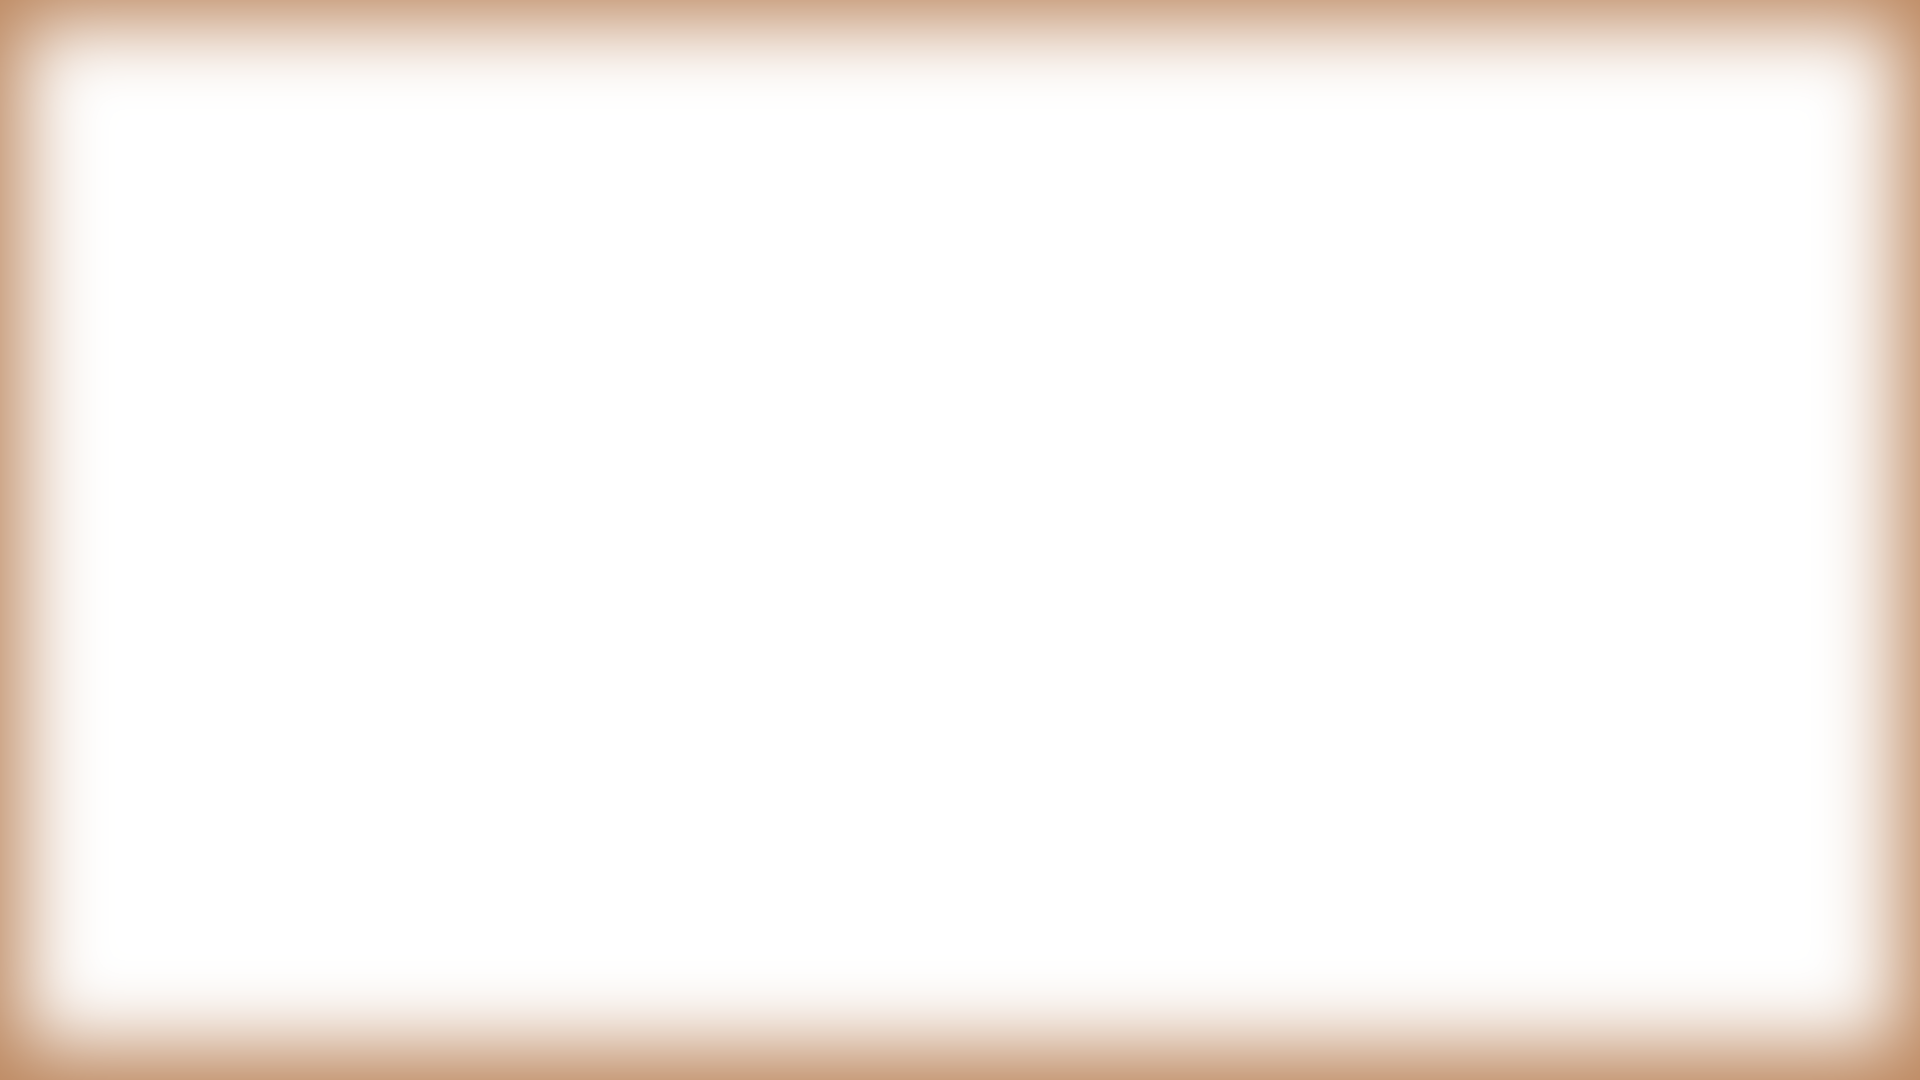
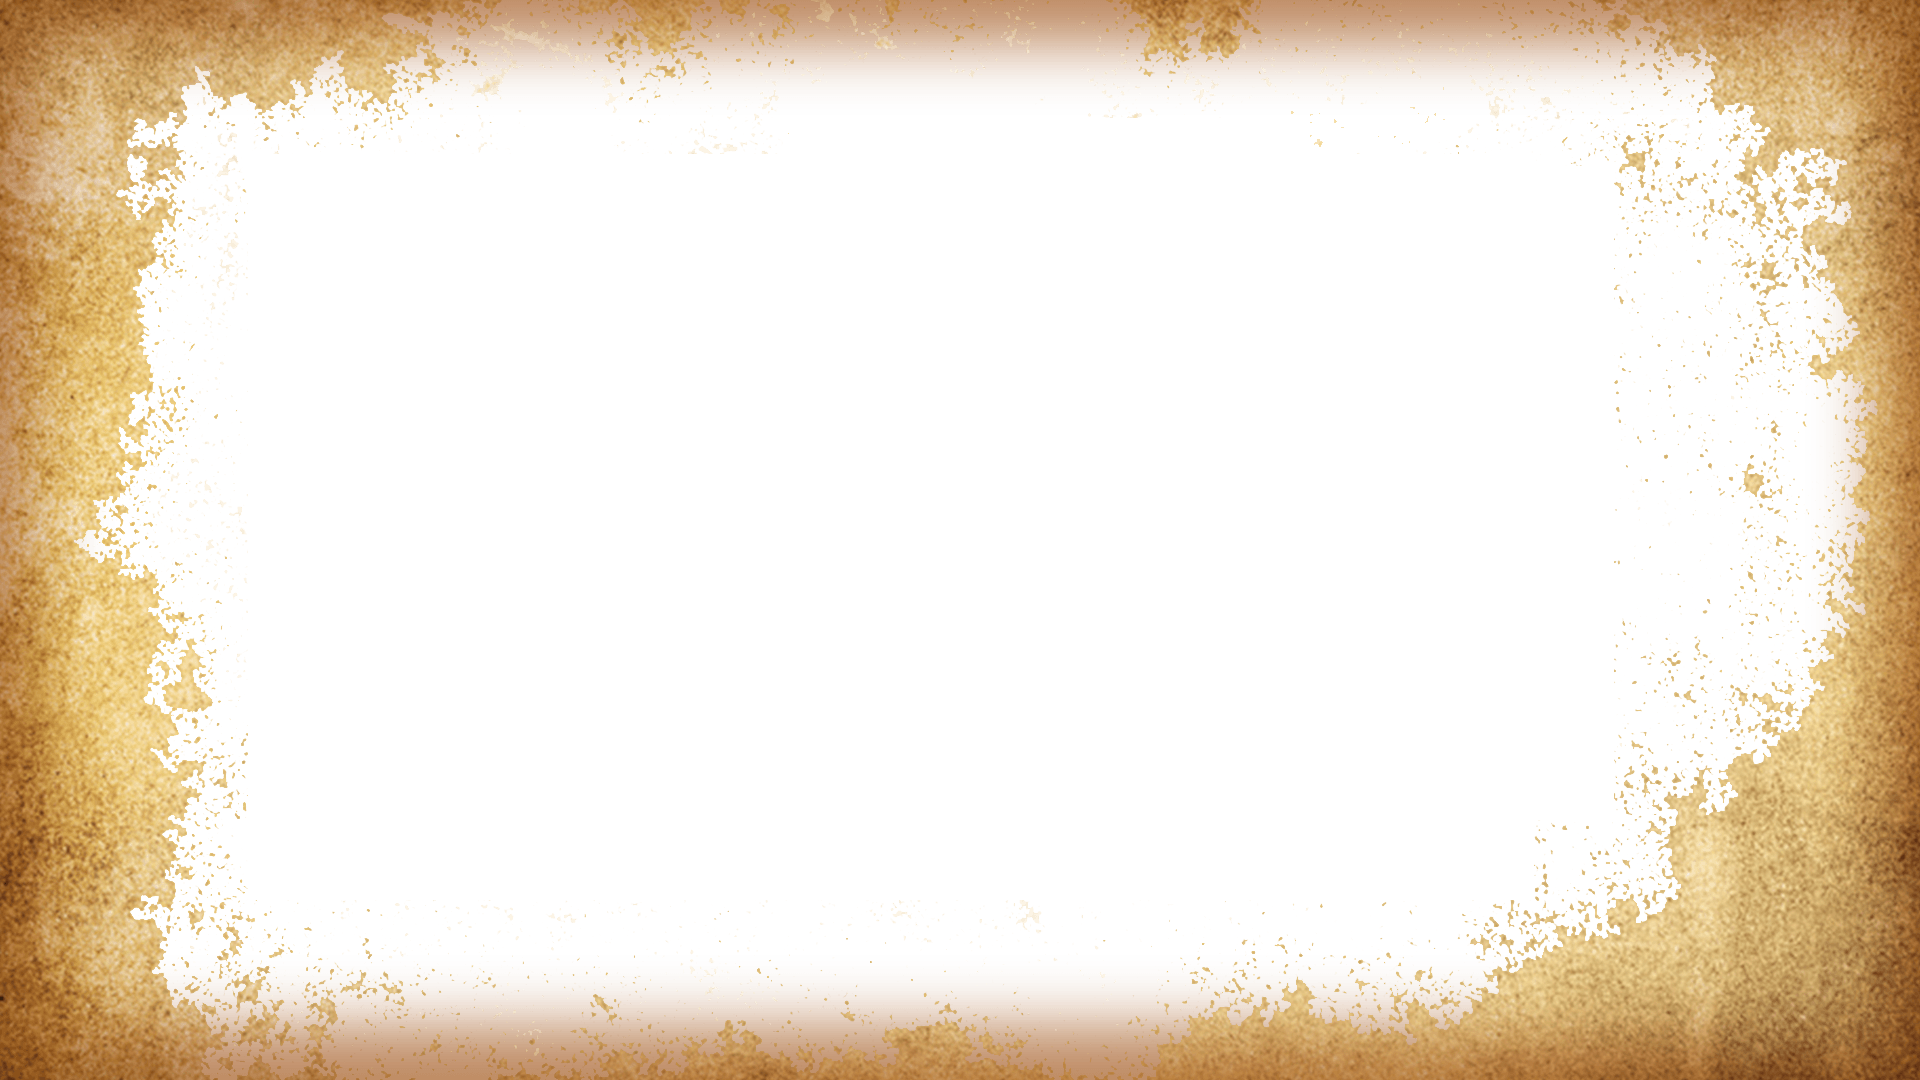
5th

Changed region(s): [[0.0, 0.0, 1.0, 1.0]]

diff --git a/src/components/FirstPage.tsx b/src/components/FirstPage.tsx
@@ -6,7 +6,7 @@ import Old1 from "../assets/old-1.png";
 import Old2 from "../assets/old-2.png";
 import Old3 from "../assets/old-3.png";
 import { ChevronLeftIcon, ChevronRightIcon } from "@heroicons/react/20/solid";
-import backgound from "../assets/background-f.png";
+import backgound from "../assets/background.png";
 import Gear from "./Gear";
 import { Link } from "react-router-dom";
 import { motion, AnimatePresence } from "framer-motion";
@@ -55,7 +55,7 @@ function FirstPage() {
     <motion.div initial={{ opacity: 0 }} animate={{ opacity: 1 }} exit={{ opacity: 0 }} className={`relative overflow-hidden text-primary-3`}>
       <div className={`relative h-screen bg-primary-1`}>
         <div className={`flex flex-col justify-center items-center w-full h-full ${isStart ? `hidden` : `null`} ${isToggle ? `pt-10 opacity-0 duration-1000` : `null`}`}>
-          <TypeAnimation sequence={["Welcome To My Website", 1000, "Toggle The Button To Start", 10000]} wrapper="span" speed={50} style={{ fontSize: "18px", display: "inline-block" }} repeat={Infinity} />
+          <TypeAnimation sequence={["", 10000, "Welcome To My Website", 1000, "Toggle The Button To Start", 10000]} wrapper="span" speed={50} style={{ fontSize: "18px", display: "inline-block" }} repeat={Infinity} />
           <Toggle />
         </div>
         <div className={`flex flex-col opacity-0 gap-5 justify-center items-center w-full h-full ${isStart ? `pt-0 opacity-100 duration-1000` : `pt-10`}`}>

diff --git a/src/App.tsx b/src/App.tsx
@@ -4,9 +4,18 @@ import ProjectsPage from "./components/ProjectsPage";
 import ProfilePage from "./components/ProfilePage";
 import ConnectPage from "./components/ConnectPage";
 import { AnimatePresence } from "framer-motion";
+import LoadingPage from "./components/LoadingPage";
+import { useEffect, useState } from "react";
 
 function App() {
   const location = useLocation();
+  const [isLoading, setLoading] = useState<boolean>(true);
+
+  useEffect(() => {
+    setTimeout(() => {
+      setLoading(false);
+    }, 10000);
+  }, []);
 
   return (
     <>
@@ -16,6 +25,7 @@ function App() {
         <Route path="/projects" element={<ProjectsPage />} />
         <Route path="/connect" element={<ConnectPage />} />
       </Routes>
+      <LoadingPage isLoading={isLoading} />
       <AnimatePresence mode="wait">
         <Outlet key={location.pathname} />
       </AnimatePresence>

diff --git a/src/components/LoadingPage.tsx b/src/components/LoadingPage.tsx
@@ -1,0 +1,25 @@
+import { motion } from "framer-motion";
+
+type Loading = {
+  isLoading: boolean;
+};
+
+function LoadingPage(props: Loading) {
+  return (
+    <motion.div
+      initial={{ opacity: 1 }}
+      animate={{ opacity: 0 }}
+      transition={{ duration: 1, delay: 9 }}
+      className={`bg-secondary-1 second-page w-screen absolute top-0 left-0 bottom-0 right-0 h-screen flex flex-col gap-5 justify-center items-center z-[150] ${!props.isLoading ? `hidden` : `null`}`}
+    >
+      <div className={`flex gap-5`}>
+        <span className={`bg-secondary-4 w-5 h-5 animate-spin`} />
+        <span className={`bg-secondary-4 w-5 h-5 animate-spin`} />
+        <span className={`bg-secondary-4 w-5 h-5 animate-spin`} />
+      </div>
+      <p className={`text-secondary-4`}>Loading</p>
+    </motion.div>
+  );
+}
+
+export default LoadingPage;
